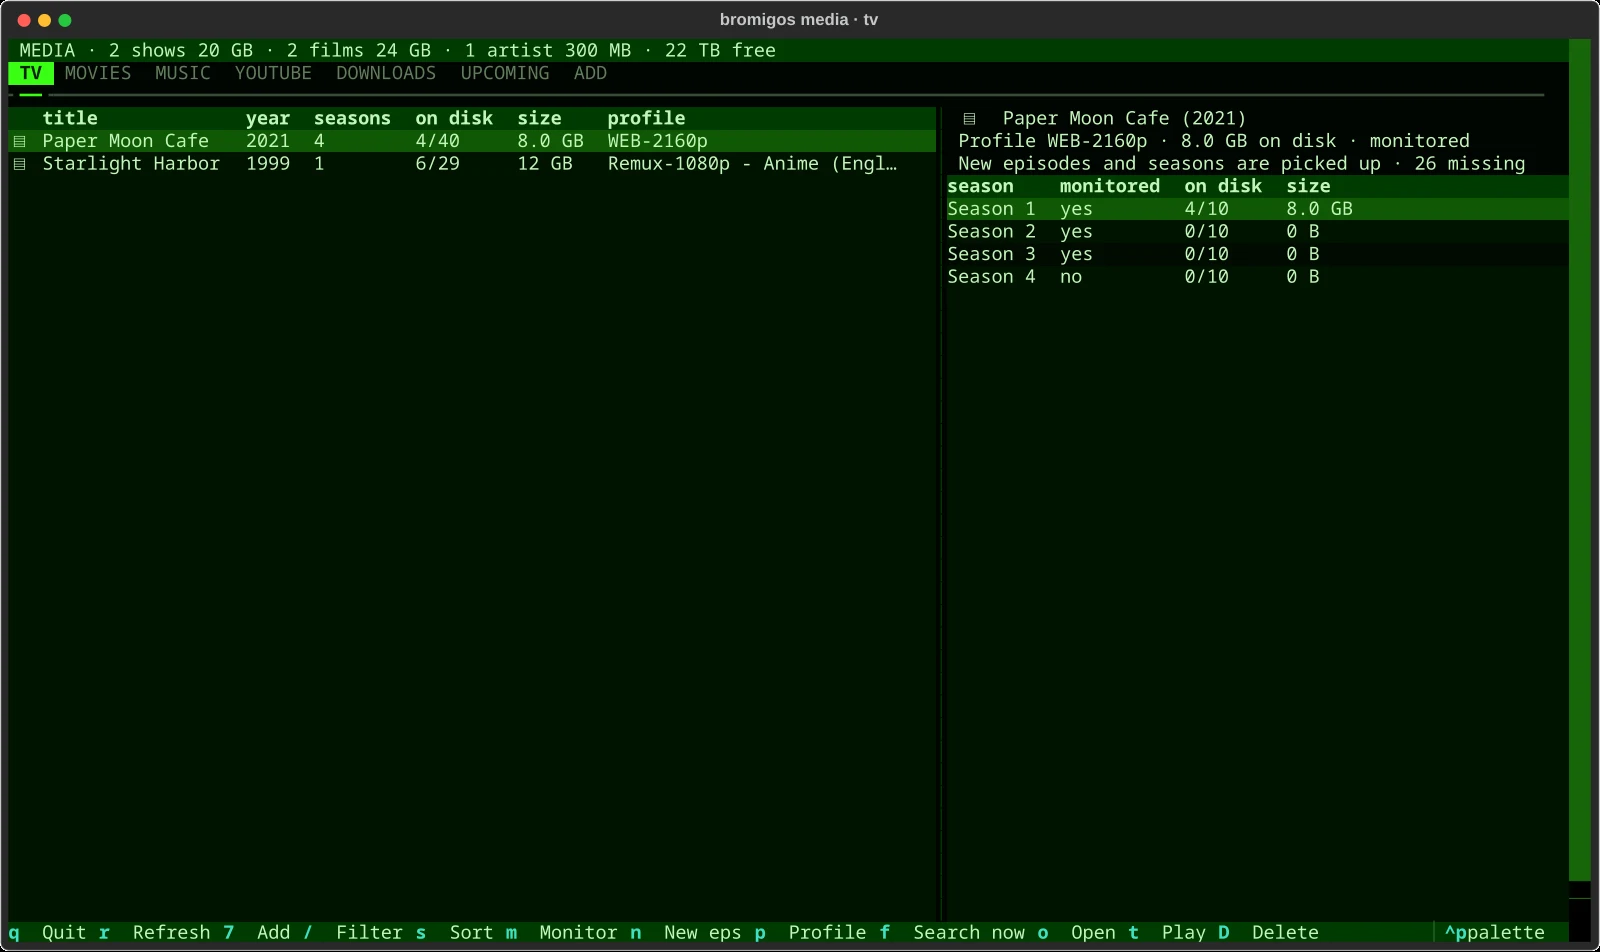
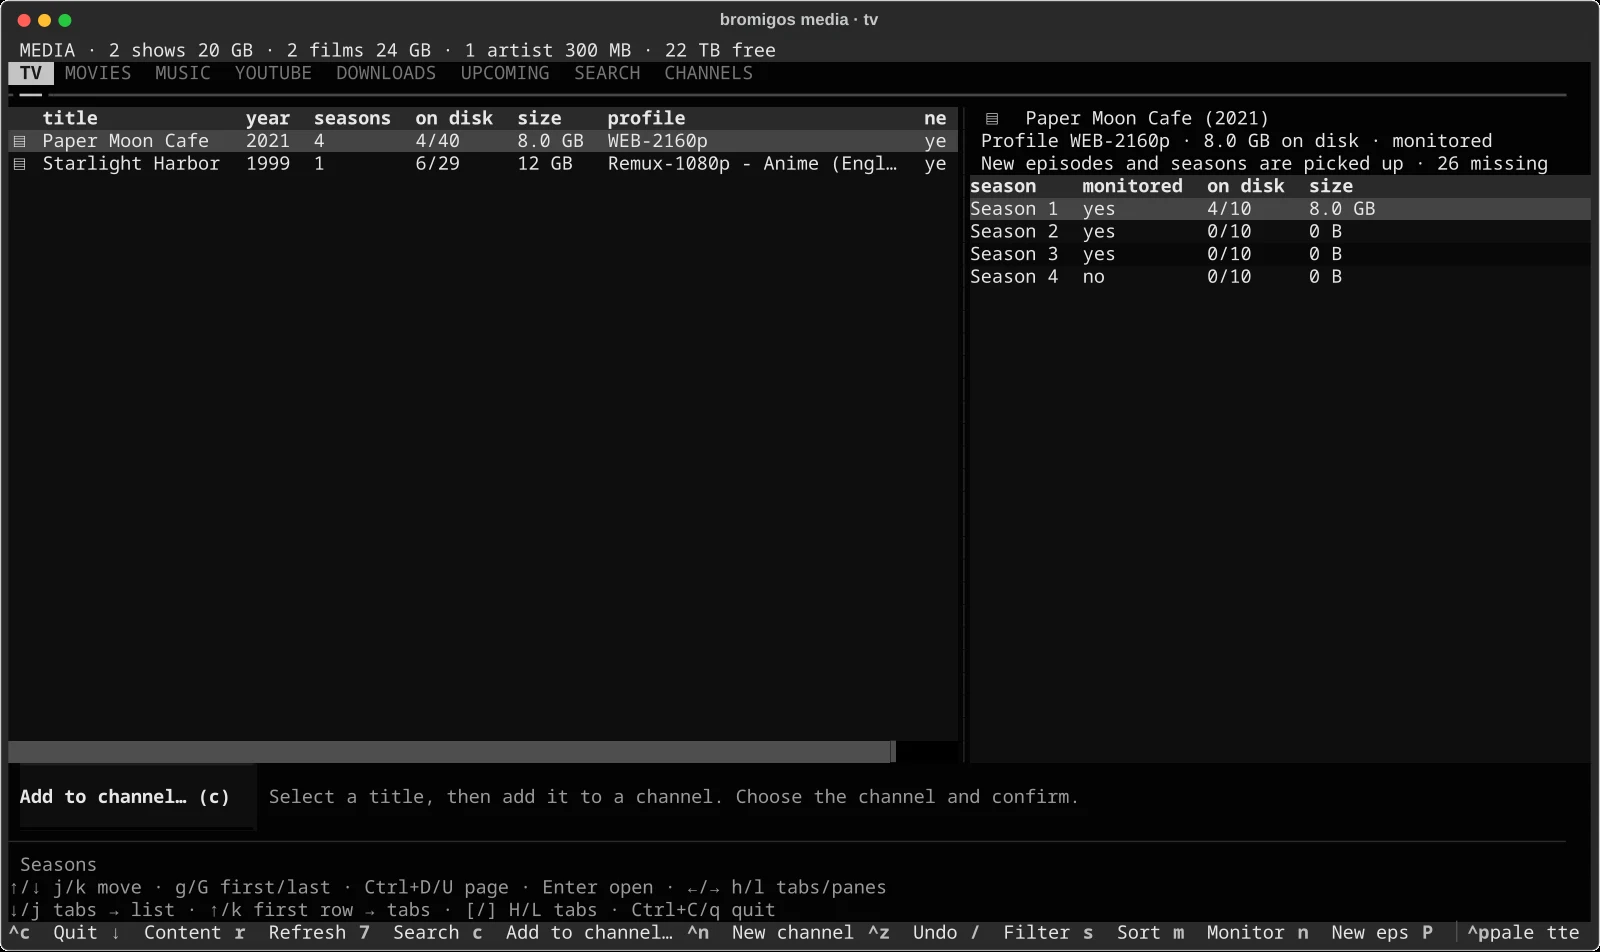
Make adding Media titles to channels visible in every title tab
Add an Add to channel button and instructions under the selected list. Preserve the focused table so selected albums are retained, and document the keyboard and mouse flows with offscreen renders.

Changed region(s): [[0.0, 0.0305, 1.0, 1.0], [0.0, 0.7616, 0.6562, 0.8529]]

diff --git a/homelab/lib/bromigos_homelab/mediatui.py b/homelab/lib/bromigos_homelab/mediatui.py
@@ -16,7 +16,7 @@ The colours are the desktop theme's, like `bromigos lab`'s dashboard.
 """
 import subprocess
 
-from textual import on, work
+from textual import events, on, work
 from textual.app import App, ComposeResult
 from textual.binding import Binding
 from textual.containers import Horizontal, Vertical
@@ -390,6 +390,8 @@ class MediaApp(App):
     #search-status { height: 2; padding: 0 1; color: $text-muted; }
     #nav { height: 2; color: $text-muted; }
     #hint { height: 2; padding: 0 1; color: $text-muted; border-top: solid $panel; }
+    #title-actions { height: 3; padding: 0 1; }
+    #title-actions Static { width: 1fr; padding: 1 1; color: $text-muted; }
     .title { text-style: bold; color: $primary; }
     .dim { color: $text-muted; }
     #channel-box { width: 80; height: auto; padding: 1 2; border: solid $primary; background: $surface; }
@@ -414,7 +416,7 @@ class MediaApp(App):
         Binding("6", "tab('upcoming')", "Upcoming", show=False, tooltip="What you track and when it comes out"),
         Binding("7,a,ctrl+f", "tab('search')", "Search", tooltip="Find something and request it (as bromigos lab media get)"),
         Binding("8", "tab('channels')", "Channels", show=False),
-        Binding("c", "channel_picker", "Channel…"),
+        Binding("c", "channel_picker", "Add to channel…"),
         Binding("ctrl+n", "channel_new", "New channel"),
         Binding("f2", "channel_rename", "Rename channel", show=False),
         Binding("b", "channel_bumpers", "Bumpers", show=False),
@@ -445,6 +447,7 @@ class MediaApp(App):
         super().__init__()
         self.src = source or Live()
         self.start = start
+        self.channel_focus = None
         self.recs = {"tv": [], "movies": [], "music": []}
         self.shown = {"tv": [], "movies": [], "music": []}
         self.subrows = {"tv": [], "movies": [], "music": []}
@@ -508,6 +511,9 @@ class MediaApp(App):
                                          ("Bumpers", "bumpers"), ("Remove item", "remove-item"),
                                          ("Delete", "delete"), ("Undo", "undo"), ("Tune", "tune")):
                         yield Button(label, id="ch-" + ident)
+        with Horizontal(id="title-actions"):
+            yield Button("Add to channel… (c)", id="title-channel", tooltip="Choose a channel for the selected title")
+            yield Static("Select a title, then add it to a channel. Choose the channel and confirm.", markup=False)
         yield Static("", id="hint")
         yield Static("↑/↓ j/k move · g/G first/last · Ctrl+D/U page · Enter open · ←/→ h/l tabs/panes\n"
                      "↓/j tabs → list · ↑/k first row → tabs · [/] H/L tabs · Ctrl+C/q quit", id="nav", markup=False)
@@ -527,6 +533,26 @@ class MediaApp(App):
         self.action_refresh()
         self.set_interval(5.0, self.load_downloads)
         self.set_interval(5.0, self.poll_channels)
+
+    def on_descendant_focus(self, event: events.DescendantFocus):
+        if isinstance(event.widget, HintTable) and not isinstance(self.screen, ModalScreen):
+            self.channel_focus = event.widget
+
+    @on(TabbedContent.TabActivated, "#tabs")
+    def title_actions(self, event):
+        try:
+            self.query_one("#title-actions").display = event.pane.id != "channels"
+        except NoMatches:
+            pass
+
+    @on(Button.Pressed, "#title-channel")
+    def title_channel(self):
+        # Clicking the button must retain the selected album in a side table.
+        table = self.channel_focus
+        pane = next((w for w in table.ancestors if isinstance(w, TabPane)), None) if table else None
+        if pane and pane.id == self.query_one("#tabs", TabbedContent).active:
+            self.set_focus(table)
+        self.action_channel_picker()
 
     # ------------------------------------------------------------------ loading
     def action_refresh(self):

diff --git a/homelab/tests/test_media_tui.py b/homelab/tests/test_media_tui.py
@@ -395,7 +395,7 @@ class TUI(Stack):
                                ('search','Comet Drift')):
                 app.action_tab(tab);await pilot.pause()
                 if tab=='search': app.query_one('#search-list').focus()
-                await pilot.press('c');await pilot.pause()
+                await pilot.click('#title-channel');await pilot.pause()
                 self.assertIsInstance(app.screen,T.ChannelPicker,tab)
                 title=app.screen.title_
                 if value:self.assertEqual(title,value)
@@ -403,6 +403,43 @@ class TUI(Stack):
                 await pilot.click('#channel-use');await self.settle(app,pilot,2)
                 rows=app.channel_store.load().channels()[0]
                 self.assertIn(title,rows['items'] if tab in ('movies','music','youtube','search') else rows['shows'])
+        self.run_app(fn)
+
+    def test_channel_button_keeps_the_selected_album_and_keyboard_activation(self):
+        self.seed_channels()
+        async def fn(app, pilot):
+            app.action_tab("music")
+            await self.settle(app, pilot, 2)
+            table = app.query_one("#music-sub")
+            table.focus()
+            await pilot.pause()
+            album = app.subrows["music"][table.cursor_row]["title"]
+            await pilot.click("#title-channel")
+            await pilot.pause()
+            self.assertEqual(app.screen.title_, "music:album:" + album)
+            await pilot.press("escape")
+            await pilot.pause()
+            app.query_one("#title-channel").focus()
+            await pilot.press("enter")
+            await pilot.pause()
+            self.assertEqual(app.screen.title_, "music:album:" + album)
+            await pilot.press("escape")
+            app.action_tab("channels")
+            await pilot.pause()
+            self.assertFalse(app.query_one("#title-actions").display)
+        self.run_app(fn)
+
+    def test_add_to_channel_with_keyboard_only(self):
+        self.seed_channels()
+        async def fn(app, pilot):
+            title = app.query_one("#tv-list").get_row_at(0)[1]
+            await pilot.press("c")
+            await pilot.pause()
+            await pilot.press("enter", "down", "enter")
+            self.shot(app, "channel-picker")
+            await pilot.press("tab", "enter")
+            await self.settle(app, pilot, 3)
+            self.assertIn(title, app.channel_store.load().channels()[0]["shows"])
         self.run_app(fn)
 
     def test_create_and_reorder_channels(self):

diff --git a/manual/src/media.md b/manual/src/media.md
@@ -221,10 +221,15 @@ play order, bumpers and the screens on it now. Select one to see its titles and 
 on now and next. A library channel includes everything in its library. A picked channel
 holds the shows, movies, YouTube addresses or music you choose.
 
-From **TV**, **Movies**, **YouTube** or **Music**, select a title and press `c`.
-This also works on search results, downloads and upcoming titles.
-Choose **Add to…**, **Remove from…**, or **New channel…**. A small diamond marks titles
-already in a channel. Adding something to a channel does not download it; it must be
+From **TV**, **Movies**, **YouTube** or **Music**, select a title and click
+**Add to channel… (c)** below the list, or press `c`. This also works on Search
+results, Downloads and Upcoming titles. In Music, selecting an album adds that album.
+Choose **Add to Night Block** (or another picked channel), then **Use channel**.
+You can also choose **Remove from…** or **New channel…**.
+
+![The Media channel picker with Add to Night Block selected](images/media-channel-picker.webp)
+
+A small diamond marks titles already in a channel. Adding something to a channel does not download it; it must be
 available from the media server or YouTube. Music plays through the den's sound controls.
 
 On **Channels**, `Ctrl+N` adds a channel, `F2` renames it, `v` changes its order, and `b`

diff --git a/docs/lab.md b/docs/lab.md
@@ -399,8 +399,10 @@ terminal. Without a terminal, both print the Requests card instead.
 - The lab console's `M` opens it, and returns to the console when it closes.
 
 - Channels use `bromigos_tvchannels.Store`, shared with the standalone GTK guide and
-  live CLI. `c` on a library title opens add/remove/new choices. A diamond marks channel
-  membership. The Channels tab shows contents, order, bumpers, screens and now/next;
+  live CLI. **Add to channel… (c)** below the active title tab opens add/remove/new
+  choices; `c` opens the same picker. Choose an **Add to** entry, then **Use channel**.
+  The button retains table focus before opening, so a selected album stays selected.
+  A diamond marks channel membership. The Channels tab shows contents, order, bumpers, screens and now/next;
   its controls edit picks, reorder, tune, rename and confirm deletion, with undo.
   A cache-only poll updates screens and now/next every five seconds without cancelling
   slower content fetches. Reordering keeps the selected channel or pick.

diff --git a/docs/ASSETS.md b/docs/ASSETS.md
@@ -280,8 +280,8 @@ no likeness and no lab hosts.
 - **`dictation.webp`**, on Dictation. The real dictation panel in a nested Hyprland,
   cropped from `desktop/tests/e2e_dictation_nested.py --shots DIR`, with synthetic audio
   and a made-up transcript. The microphone and audio meter are drawn in code.
-- **`media-library.webp`**, **`media-search.webp`** and **`media-delete.webp`**, on The lab console and Your media
-  pages. `bromigos media`'s TV and Search tabs and its Delete/Cancel question, exported by its tests
+- **`media-library.webp`**, **`media-search.webp`**, **`media-channel-picker.webp`** and **`media-delete.webp`**, on The lab console and Your media
+  pages. `bromigos media`'s TV and Search tabs, channel picker and Delete/Cancel question, exported by its tests
   (`homelab/tests/test_media_tui.py`, `MEDIA_SCREENSHOTS=DIR`) from a fake media stack with
   made-up titles, converted from SVG at 1600 wide.
 - **`menu.webp`**, on The menu page. The menu with a search typed, rendered offscreen

diff --git a/manual/src/commands.md b/manual/src/commands.md
@@ -79,7 +79,7 @@ This page lists the commands by task first, then each one in full.
 |---|---|
 | [`bromigos setup homelab`](#bromigos-setup-homelab) | Find [your homelab](homelab.md)'s services and connect them. |
 | [`bromigos homelab`](#bromigos-homelab) | See what's connected from your homelab, and what doesn't answer. |
-| [`bromigos media`](#bromigos-media) | Open [Your media](media.md) in the terminal: use the Search tab to find media, request, monitor, play or delete shows, films and albums. |
+| [`bromigos media`](#bromigos-media) | Open [Your media](media.md) in the terminal: find and request media, add titles to channels, monitor, play or delete shows, films and albums. |
 | [`bromigos lab`](#bromigos-lab) | Open [the lab console](lab.md): your homelab's status, its GPUs, and jobs to run on them. |
 
 ### Apps, extensions and the menu

diff --git a/homelab/README.md b/homelab/README.md
@@ -64,6 +64,10 @@ The main modules in `lib/bromigos_homelab/`:
 | `observability.py` | required monitoring, dashboards, alerts and read-only connections |
 | `tui.py` | the `bromigos lab` dashboard, built with Textual |
 
+The media library shows **Add to channel… (c)** below each title tab. Select a title
+or album, use the button or `c`, choose **Add to** a picked channel, then **Use channel**.
+The button preserves the selected Music album when it opens the picker.
+
 The media library’s tab bar uses `Left`/`Right` or `h`/`l` to select a tab.
 `Down`/`j` enters its table; `Up`/`k` at the first row returns to the tab bar.
 The Search tab (`7` or `Ctrl+F`) finds titles beyond your library. Type a title, choose

diff --git a/manual/src/lab.md b/manual/src/lab.md
@@ -395,6 +395,9 @@ then press a key:
 | `D` | Delete it |
 | `/`, `s` | Filter by name, and change the sort: newest, size, name, missing, profile |
 
+**Add to channel… (c)** below the list puts the selected title in a picked channel.
+Choose the channel’s **Add to** entry, then **Use channel**.
+
 Hover over anything to see what it does. The [media guide](media.md#make-channels-for-the-den-tv)
 covers Channels, its keys and CLI commands.
 
